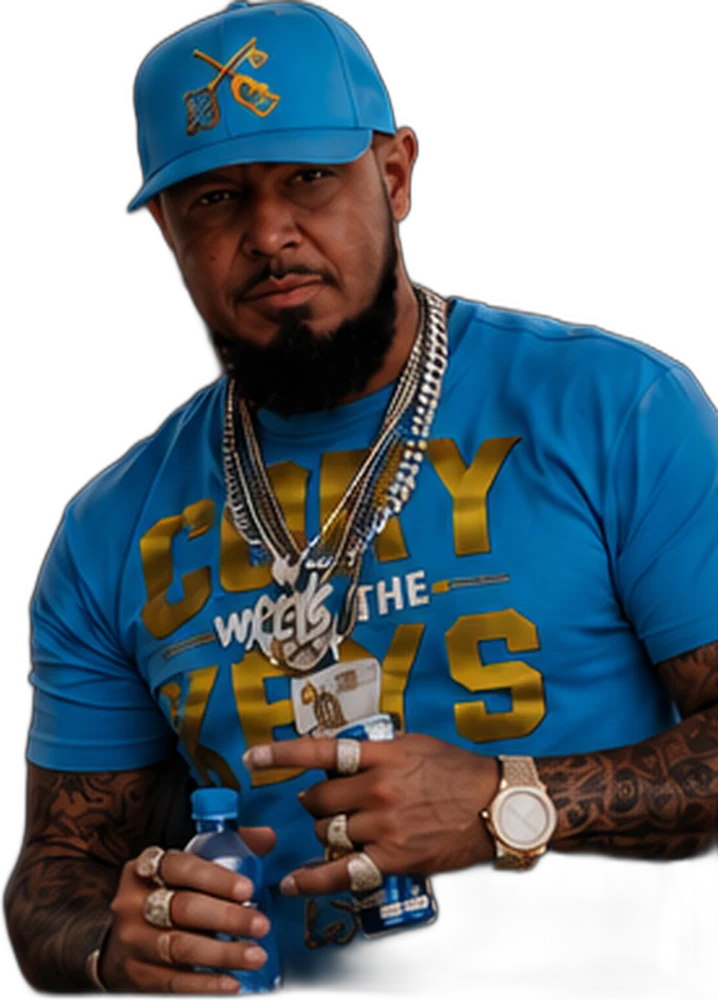
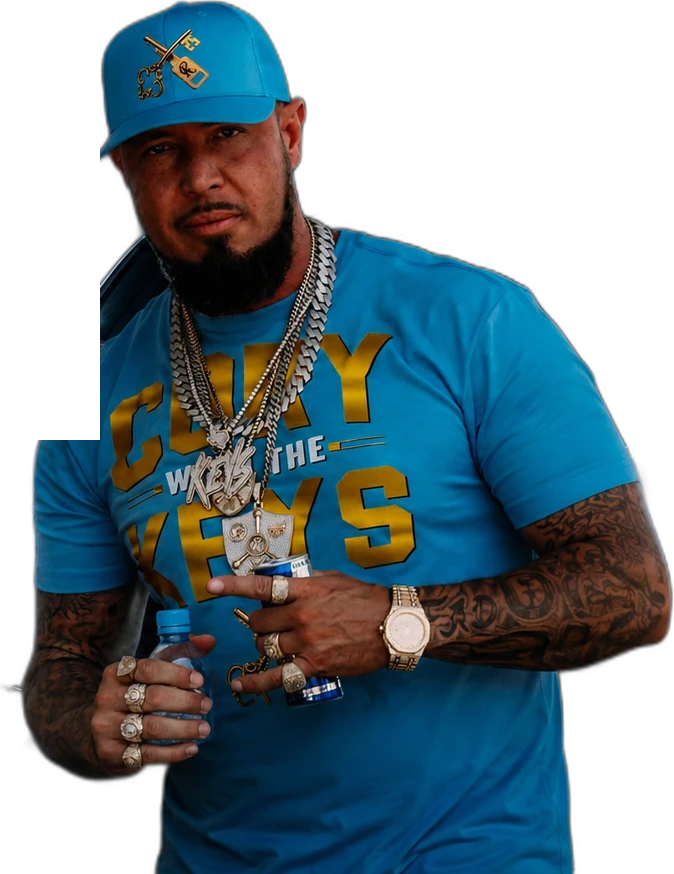
Use the supplied hero composite on the shop
The real shot replaces the version I assembled from a stage-photo crop.
Cory, the car, the halo headlights and the smoke are one photograph now,
so nothing is layered, tinted or reconstructed. It already leaves the
left third dark, which is where the type sits.

Desktop puts the photograph behind the copy; a phone flips it - copy
first, photograph as its own block below - because overlaying white text
on his chest at 390px is unreadable. Crop anchored high so the cap is
never clipped.

The same file is a far better source for the cut-out than the 1024px
mockup was, so cory-cutout.webp is regenerated from it: sharper on the
About story card and in the shop quote banner. Cut at full resolution,
with a stray fragment of the car mirror erased.

Claude-Session: https://claude.ai/code/session_01EqzdogznNEGKwWnJQJi4S5

diff --git a/src/components/shop/ShopHero.tsx b/src/components/shop/ShopHero.tsx
@@ -5,33 +5,42 @@ import { BENEFIT_ICONS } from "@/components/shop/icons";
 import { HERO_BENEFITS } from "@/data/shop";
 
 /**
- * Hero: type on the left, Cory on the right against the car.
+ * Hero.
  *
- * The automotive scene is assembled from real assets rather than a generated
- * composite — the car and its blue headlights are a crop of the stage
- * photograph, Cory is the transparent cut-out of the actual photo, and the
- * haze and rim light are CSS gradients layered between them. Nothing about
- * him is redrawn.
+ * The supplied composite is used whole — Cory, the car, the halo headlights
+ * and the smoke are all one photograph, so nothing here is assembled, tinted
+ * or redrawn. The shot already leaves the left third dark and empty, which is
+ * exactly where the type goes.
+ *
+ * On desktop the photograph is the background and the copy sits over it. On a
+ * phone that would put white text across his chest, so the layout flips: copy
+ * first, photograph underneath it as its own block.
  */
 export function ShopHero() {
   return (
-    <section className="relative isolate overflow-hidden bg-shop-ink">
-      {/* Car, headlights and haze. */}
-      <div aria-hidden className="absolute inset-y-0 right-0 w-full lg:w-[62%]">
+    <section className="relative isolate flex flex-col overflow-hidden bg-shop-ink lg:block lg:min-h-[42rem]">
+      <div className="relative order-2 h-72 w-full sm:h-96 lg:absolute lg:inset-0 lg:order-none lg:h-full">
         <Image
-          src="/brand/shop/hero-car.webp"
-          alt=""
+          src="/brand/shop/hero.webp"
+          alt="Cory With The Keys in front of a black performance car with blue halo headlights"
           fill
           priority
-          sizes="(max-width: 1024px) 100vw, 62vw"
-          className="object-cover object-[78%_center] opacity-80"
+          sizes="100vw"
+          className="object-cover object-[68%_18%] lg:object-[72%_16%]"
         />
-        <div className="absolute inset-0 bg-[radial-gradient(60%_55%_at_62%_46%,rgba(10,102,255,0.28),transparent_70%)]" />
-        <div className="absolute inset-0 bg-[linear-gradient(to_right,#020609_0%,rgba(2,6,9,0.8)_22%,transparent_52%)]" />
-        <div className="absolute inset-x-0 bottom-0 h-28 bg-[linear-gradient(to_top,#020609,transparent)]" />
+
+        {/* Desktop only: protects the copy column without dimming the phone crop. */}
+        <div
+          aria-hidden
+          className="absolute inset-0 hidden lg:block lg:bg-[linear-gradient(to_right,#020609_4%,rgba(2,6,9,0.82)_26%,rgba(2,6,9,0.25)_46%,transparent_60%)]"
+        />
+        <div
+          aria-hidden
+          className="absolute inset-x-0 bottom-0 h-20 bg-[linear-gradient(to_top,#050a0f,transparent)] lg:h-24"
+        />
       </div>
 
-      <div className="relative mx-auto grid max-w-[1400px] gap-8 px-4 pb-10 pt-12 sm:px-6 lg:grid-cols-[1fr_46%] lg:gap-4 lg:px-8 lg:pb-14 lg:pt-16">
+      <div className="relative order-1 mx-auto w-full max-w-[1400px] px-4 pb-8 pt-12 sm:px-6 lg:order-none lg:px-8 lg:pb-24 lg:pt-24">
         <div className="max-w-xl">
           <p className="text-[11px] font-bold uppercase tracking-[0.3em] text-keyblue-electric">
             Official Merch
@@ -65,7 +74,7 @@ export function ShopHero() {
             </Link>
             <Link
               href="/shop?filter=new"
-              className="border border-white/35 px-6 py-3.5 text-xs font-bold uppercase tracking-wider text-white transition hover:border-white hover:bg-white/10"
+              className="border border-white/35 px-6 py-3.5 text-xs font-bold uppercase tracking-wider text-white backdrop-blur-sm transition hover:border-white hover:bg-white/10"
             >
               New Drops
             </Link>
@@ -99,23 +108,6 @@ export function ShopHero() {
               </li>
             ))}
           </ul>
-        </div>
-
-        {/* Cory. The real photograph, cut out — never redrawn. */}
-        <div className="relative -mb-10 h-72 sm:h-96 lg:mb-0 lg:h-auto lg:min-h-[30rem]">
-          <div
-            aria-hidden
-            className="absolute inset-x-0 bottom-0 top-1/4 bg-[radial-gradient(50%_50%_at_50%_60%,rgba(10,102,255,0.22),transparent_72%)]"
-          />
-          <Image
-            src="/brand/about/cory-cutout.webp"
-            alt="Cory With The Keys wearing the Cory With The Keys tee and cap"
-            width={718}
-            height={1000}
-            priority
-            sizes="(max-width: 1024px) 70vw, 620px"
-            className="absolute bottom-0 left-1/2 h-full w-auto max-w-none -translate-x-1/2 object-contain object-bottom drop-shadow-[0_0_40px_rgba(10,102,255,0.35)]"
-          />
         </div>
       </div>
     </section>
